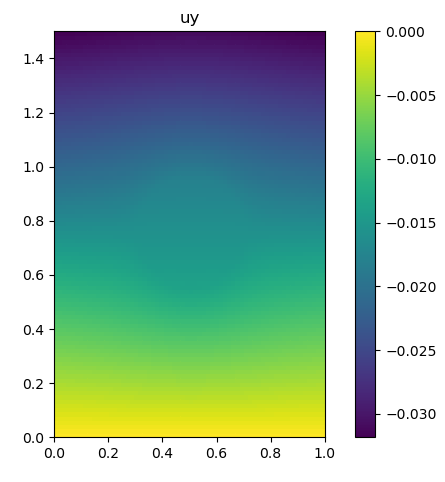
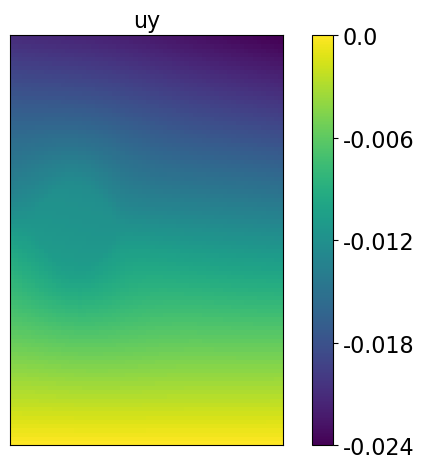
Changes to be committed: 	new file:   Figures/schematic_inv/eyy.png 	modified:   Figures/schematic_inv/mu.png 	modified:   Figures/schematic_inv/schematic_inv.png 	modified:   Figures/schematic_inv/uy.png 	modified:   ei_ml_arxiv2.tex

diff --git a/TeX_ML/ei_ml_arxiv/ei_ml_arxiv2.tex b/TeX_ML/ei_ml_arxiv/ei_ml_arxiv2.tex
@@ -58,7 +58,7 @@
 \newcommand{\nhgcnnheight}{4.0cm}
 % Appendix dimensions
 \newcommand{\nhgappwidth}{0.24\linewidth}
-\newcommand{\nhgappheight}{3.0cm}
+\newcommand{\nhgappheight}{2.9cm}
 % Histogram dimensions
 \newcommand{\nhghistowidth}{0.48\linewidth}
 \newcommand{\nhghistoheight}{4cm}
@@ -126,7 +126,7 @@ Conceptually, the solution of the inverse problem using a CNN is shown in figure
 %
 \begin{figure}[!h]
    \centering
-    \includegraphics[totalheight=4cm]{Figures/schematic_inv/schematic_inv.png}
+    \includegraphics[totalheight=5cm]{Figures/schematic_inv/schematic_inv.png}
   \caption{\label{fig:schematic_inv} Solving the inverse problem using CNNs. The CNN maps the displacement or strain field (or components thereof) to a shear modulus field.}
 \end{figure}
 %
@@ -285,6 +285,8 @@ To avoid this we add, as noted in \cite{bookchap:lecun98b}, a \textit{twisting t
 
 We note that, when we write: ``twisted tanh $[\mu_{lower},\mu_{upper}]$'' we mean that we are using the twisted tanh activation function with the training shear modulus data being scaled such that the interval $[\mu_{lower},\mu_{upper}]$ is mapped linearly to $[-1,1]$. The true range of the shear modulus for all the examples in this work is $[1.0,5.0]$, as noted before in section (\ref{sect:probsetup}).
 
+We conclude by commenting that enforcing constraints on the shear modulus is easy in traditional iterative methods because we can just supply bound constraints to the optimization algorithm. On the other hand, for neural networks, constrainng the shear modulus requires constraining the range of the output layer activatio which causes the gradients of the activation function to be zero, as the input goes further away from zero.
+
 \subsection{\label{sect:compsofttanh} Reduction of haloes using twisted tanh}
 In order to compare the softplus and twisted tanh activations, we define a metric which we call the scaled error. We denote the scaled error for the $i^{th}$  test example by $\zeta_{i}$ and the average scaled error by $\zeta_{ave}$. They are defined as 
 \begin{subequations}
@@ -293,7 +295,7 @@ In order to compare the softplus and twisted tanh activations, we define a metri
   \zeta_{ave} &\coloneqq \frac{\sum_{i=1}^{n_{test}}\zeta_{i}}{n_{test}} &\label{eqn:averagescalederror}
   \end{align}
 \end{subequations}
-where $\mu^{i,predicted}$ and $\mu^{i,true}$ are vectors containing the predicted and true values of the shear modulus for the $i^{th}$ test example and $n_{test}$ is the number of test examples, in our case $2000$. $\|\cdot\|_2$ is the Euclidean norm defined in equation (\ref{eqn:eucnorm}).
+where $\mu^{i,predicted}$ and $\mu^{i,true}$ are vectors containing the predicted and true values of the shear modulus for the $i^{th}$ test example and $n_{test}$ is the number of test examples. $\|\cdot\|_2$ is the Euclidean norm defined in equation (\ref{eqn:eucnorm}).
 
 We find that the average scaled error, defined above in equation (\ref{eqn:averagescalederror}), decreases as the known bounds $[\mu_{lower},\mu_{upper}]$ approach true bounds $[1.0,5.0]$, as seen in table (\ref{table:muminmax}).
 
@@ -362,26 +364,24 @@ Referring to figure (\ref{fig:haloes}), we see that the \textit{haloes} seen in 
 %\end{figure}
 %
 \section{Results}
-We present results for the CNNs described in table (\ref{table:cnnparams}) and section (\ref{sect:cnnarch}). Their architecture and parameters are given in figure (\ref{fig:cnn_arch}). In sections (\ref{sect:resultscnn1}) and (\ref{sect:resultscnn2}) we test the CNNs on data similar to training data. That is, both the training and test data contain displacement or strain fields corresponding to $1,2$ or $3$ circular inclusions in the domain. In sections (\ref{sect:resultscnn3}) and (\ref{sect:resultscross}) we test the performance on the CNNs on data which is unlike its training data, because the training data consists of displacement or strain fields corresponding to exactly one circular inclusion in the domain, while the test data contains either $1,2$ or $3$ inclusions in the domain. 
+We present results for the CNNs described in table (\ref{table:cnnparams}) and section (\ref{sect:cnnarch}). Their architecture and parameters are given in figure (\ref{fig:cnn_arch}). In sections (\ref{sect:resultscnn1}) and (\ref{sect:resultscnn2}) we test the CNNs on data similar to training data. That is, both the training and test data contain displacement or strain fields corresponding to $1,2$ or $3$ circular inclusions in the domain. In sections (\ref{sect:resultscnn3}) and (\ref{sect:resultscross}) we test the performance on the CNNs on data which is unlike its training data, because the training data consists of displacement or strain fields corresponding to exactly one circular inclusion in the domain, while the test data contains either $1,2$ or $3$ inclusions. 
 
-Every CNN is trained for 384 epochs to put them on a equal footing for comparison. At approximately ${28}$ seconds per epoch, the network takes about ${3}$ hours to train. All CNNs use the twisted tanh $[0.75,5.25]$ activation. This means that we instruct the CNNs to predict shear moduli approximately in the range $[0.75,5.25]$ as opposed to the true range $[1.0,5.0]$. Thus, we are not assuming perfect knowledge of the upper and lower bounds for the shear modulus in the problem. For each CNN, we present two representative reconstructions which illustrate the performance of our neural network. We present histograms based on the scaled error, equation (\ref{eqn:scalederror}). We present additional supporting reconstructions in Appendix (\ref{sect:appendix1}).
+We train each CNN for 384 epochs to put them on a equal footing for comparison. At approximately ${28}$ seconds per epoch, the network takes about ${3}$ hours to train. All CNNs use the twisted tanh $[0.75,5.25]$ activation. This means that we instruct the CNNs to predict shear moduli approximately in the range $[0.75,5.25]$ as opposed to the true range $[1.0,5.0]$. Thus, we are not assuming perfect knowledge of the upper and lower bounds for the shear modulus in the problem. For each CNN, we present two representative reconstructions which illustrate the performance of our neural network. We present histograms based on the scaled error, equation (\ref{eqn:scalederror}), and additional supporting reconstructions in Appendix (\ref{sect:appendix1}).
 
 \subsection{Error metrics}
 We introduce new metrics, namely the \textit{inclusion scaled error} and \textit{background scaled error}, to evaluate the performance of the neural networks. These metrics  measure the average percentage error in the shear modulus in the background or in the inclusion. We denote the inclusion scaled error for the $i^{th}$ test example by $\eta_{i}$ and its average by $\eta_{ave}$. They are defined as 
 \begin{subequations}
   \begin{align}
-  \eta_{i} &\coloneqq \frac{1}{n_{inc_i}}\sum_{j=1}^{n_{inc_i}}{\Bigg (}\frac{\mu^{i,predicted}_{j}-\mu^{i,true}_{j}}{\mu^{i,true}_{j}}{\Bigg )},  &\label{eqn:incscalederror}\\
-  \eta_{ave} &\coloneqq \frac{\sum_{i=1}^{n_{test}}\eta_{i}}{n_{test}}. &\label{eqn:averageincscalederror}
+  \eta_{i} &\coloneqq \frac{1}{n_{inc_i}}\sum_{j=1}^{n_{inc_i}}{\Bigg (}\frac{\mu^{i,predicted}_{j}-\mu^{i,true}_{j}}{\mu^{i,true}_{j}}{\Bigg )},  & \eta_{ave} &\coloneqq \frac{\sum_{i=1}^{n_{test}}\eta_{i}}{n_{test}}. &\label{eqn:averageincscalederror}
   \end{align}
 \end{subequations}
 In the above equations, $\mu_{j}^{i,true}$ is the $j^{th}$ component of a vector $\mu^{i,true}$ containing true values of the shear modulus for the $i^{th}$ test example, \textit{restricted to the true inclusion(s)} only. $\mu_{j}^{i,predicted}$ is the $j^{th}$ component of a vector $\mu^{i,predicted}$ containing corresponding predictions. $n_{inc_i}$ is the number of nodes in the inclusion(s) for the $i^{th}$ test example. $n_{test}$ is the number of test examples, in our case $2000$. The quantities $\eta_i$ and $\eta_{ave}$ capture how accurately the shear modulus of the inclusions is predicted. Positive values of $\eta_i$ and $\eta_{ave}$ indicate over-prediction. Negative values indicate under-prediction.
 
-The background scaled error for the $i^{th}$ example $\xi_{i}$ and its average $\xi_{ave}$ can be defined similarly, by replacing $n_{inc_i}$ in equations (\ref{eqn:incscalederror}) and (\ref{eqn:averageincscalederror})  with $n_{back_i}$ (the number of nodes in the background) and restricting the vectors $\mu^{i,true}$ and $\mu^{i,predicted}$ to the background only.
+The background scaled error for the $i^{th}$ example $\xi_{i}$ and its average $\xi_{ave}$ can be defined similarly, by replacing $n_{inc_i}$ in equation (\ref{eqn:averageincscalederror})  with $n_{back_i}$ (the number of nodes in the background) and restricting the vectors $\mu^{i,true}$ and $\mu^{i,predicted}$ to the background only.
 
 \begin{subequations}
   \begin{align}
-  \xi_{i} &\coloneqq \frac{1}{n_{back_i}}\sum_{j=1}^{n_{back_i}}{\Bigg (}\frac{\mu^{i,predicted}_{j}-\mu^{i,true}_{j}}{\mu^{i,true}_{j}}{\Bigg )},  &\label{eqn:backscalederror}\\
-  \xi_{ave} &\coloneqq \frac{\sum_{i=1}^{n_{test}}\eta_{i}}{n_{test}}. &\label{eqn:averagebackscalederror}
+  \xi_{i} &\coloneqq \frac{1}{n_{back_i}}\sum_{j=1}^{n_{back_i}}{\Bigg (}\frac{\mu^{i,predicted}_{j}-\mu^{i,true}_{j}}{\mu^{i,true}_{j}}{\Bigg )},  & \xi_{ave} &\coloneqq \frac{\sum_{i=1}^{n_{test}}\xi_{i}}{n_{test}}. &\label{eqn:averagebackscalederror}
   \end{align}
 \end{subequations}
 
@@ -514,7 +514,7 @@ Figure (\ref{fig:cnn2histo}) shows histograms of the scaled error, equation (\re
 \subsection{\label{sect:resultscnn3}Results for CNN3}
 In this section, we evaluate the ability of the CNN to generalize to examples outside its training set. We choose CNN3, see table (\ref{table:cnnparams}), which is trained using data which was generated using only one inclusion. But we evaluate it on data containing $1,2$ or $3$ inclusions. This is the same data was used to train and test CNN1 and CNN2. We see evidence of some ability to generalize.
 
-The training and validation losses for CNN3 are shown in figure (\ref{fig:cnn3losses}). The average inclusion scaled error is $-0.191$ and the average background scaled error is $-0.0459$. As expected, the average inclusion scaled error is worse than CNN1. This is surprisingly better than that of CNN2 because, unlike CNN3, CNN2 was tested with data similar to the training data. The average background scaled error is also worse than CNN1 but better than CNN2. This is another indication that strain based CNNs outperform displacement based CNNs.
+The training and validation losses for CNN3 are shown in figure (\ref{fig:cnn3losses}). The average inclusion scaled error is $-0.191$ and the average background scaled error is $-0.0459$. As expected, the average inclusion scaled error is worse than CNN1, but is surprisingly better than CNN2 because, unlike CNN3, CNN2 was tested with data similar to the training data. The average background scaled error is also worse than CNN1 but better than CNN2. This is another indication that strain based CNNs outperform displacement based CNNs.
 
 We present representative reconstructions in figures (\ref{fig:cnn3resulta}) and (\ref{fig:cnn3resultb}). These reconstructions are for the same true shear modulus fields for CNN1 and CNN2 (see figures (\ref{fig:cnn1result}) and (\ref{fig:cnn2result})). These results are worse than those obtained by CNN1 (figure \ref{fig:cnn1result}) and slightly better than those obtained by CNN2 (figure (\ref{fig:cnn2result})) according to the scaled error, equation (\ref{eqn:scalederror}). It is interesting that a CNN trained on examples with only one inclusion in the domain can detect multiple inclusions. Visually it appears that the performance of this CNN2 in the first example, figure (\ref{fig:cnn2resulta}), is better than CNN2 but worse than CNN1. It would appear that the performance is worse than CNN1 but better than CNN2. The inclusions on the bottom right in figure (\ref{fig:cnn3resultb}) have low shear modulus and are detected only as wisps. We have also observed this phenomenon in other reconstructions. We present additional results illustrating the performance of the network in figure (\ref{fig:app3result}) in Appendix (\ref{sect:appendix1}).
 
@@ -575,7 +575,6 @@ Figure (\ref{fig:cnn3histo}) shows histograms of the scaled error. We see that t
 \end{figure}
 %
 \subsection{\label{sect:resultscross} Cross shaped example}
-Figure (\ref{fig:resultcross}) shows reconstructions obtained when CNN1 is presented with data that is completely unlike its training data. The data is the axial strain $\epsilon_{yy}$ corresponding to the true shear modulus field in figure (\ref{fig:resultcross}). The boundary conditions were the same as before. The reconstruction in figure (\ref{fig:resultcross}) shows that the CNN1 can predict that there is an inclusion but cannot detect its exact shape. This result shows that if CNNs studied in this work are presented with data unlike their training data, good results may not be obtained. This is unlike traditional iterative methods which have been shown in \cite{paper:oberaipmb2004} to be able to capture inclusions with complicated shapes.
 %
 \begin{figure}[!h]
   \centering
@@ -583,6 +582,7 @@ Figure (\ref{fig:resultcross}) shows reconstructions obtained when CNN1 is prese
   \caption{\label{fig:resultcross} Result for cross shaped inclusion using CNN1. True shear modulus (left), prediction (right). The scaled error, equation (\ref{eqn:scalederror}), is $0.418$.}
 \end{figure}
 %
+Figure (\ref{fig:resultcross}) shows reconstructions obtained when CNN1 is presented with data that is completely unlike its training data. The data is the axial strain $\epsilon_{yy}$ corresponding to the true shear modulus field in figure (\ref{fig:resultcross}). The boundary conditions were the same as before. The reconstruction in figure (\ref{fig:resultcross}) shows that the CNN1 can predict that there is an inclusion but cannot detect its exact shape. This result shows that if CNNs studied in this work are presented with data unlike their training data, good results may not be obtained. This is unlike traditional iterative methods which have been shown in \cite{paper:oberaipmb2004} to be able to capture inclusions with complicated shapes.
 \subsection{\label{sect:discussion}Discussion}
 We observe encouraging results with good agreement between the true and predicted shear shear modulus images. Table (\ref{table:cnnstatsummary}) summarizes the performance of the three CNNs evaluated in this work. The shear modulus of inclusions is, in general, under-predicted. The shear modulus of inclusions with low shear modulus and small sized inclusions is significantly under-predicted, resulting in predictions that can be best described as 'wisps'.
 
@@ -608,35 +608,34 @@ The average inclusion scaled error, given in equation (\ref{eqn:averageincscaled
 
 On the basis of the average scaled error, table (\ref{table:cnnstatsummary}),  CNN1 outperforms CNN3 which in turn outperforms CNN2. Thus, the strain based networks are more accurate at predicting the value of the shear modulus of the inclusion. From cumulative histograms shown in figures (\ref{fig:cnn1histob},\ref{fig:cnn2histob}) and (\ref{fig:cnn3histob}) the fraction of examples classified with average scaled error less than $0.25$ was $0.80$ for CNN1 and $0.40$ for CNN2 and $0.75$ for CNN3. This indicates that CNN1 and CNN3 outperform CNN2 on this metric. We think that exploring the physical meaning of the convolutional filters learned using Fourier analysis as in \cite{paper:pateloberai2019} is a promising direction for investigating the reason for out-performance.
 
-The results presented in section (\ref{sect:resultscnn3}) show that a CNN trained on one inclusion in the domain can generalize to multiple inclusions in the domain. The result in section (\ref{sect:resultscross}) shows that the CNN does not generalize perfectly to non-circular examples. 
+The results presented in section (\ref{sect:resultscnn3}) show that a CNN trained on one inclusion in the domain can generalize to multiple inclusions in the domain. The result in section (\ref{sect:resultscross}) shows that CNN1 does not generalize perfectly to non-circular examples. 
 %
 \section{Concluding remarks}
 % Custom activation function
 % https://stackoverflow.com/questions/43915482/how-do-you-create-a-custom-activation-function-with-keras
-In this work, we have presented CNNs capable of predicting shear modulus fields from displacement or strain fields and obtained results that warrant further research. We use the twisted tanh activation function to constrain the shear modulus prediction as per our prior knowledge. The shear modulus of the inclusions with shear modulus close to the background modulus, or small inclusions, is predicted as wisps, while regions of high shear modulus are predicted more accurately. It is seen that while the CNNs exhibit good performance on the type of examples whose geometry is similar to the examples on which they were trained. They have limited ability to generalize to examples with unseen geometry, as is seen with the cross-shaped example. Using bigger data sets containing a large number of examples with different geometric characteristics may alleviate this problem.\\
+In this work, we have presented CNNs capable of predicting shear modulus fields from displacement or strain fields and obtained results that warrant further research. We use the twisted tanh activation function to constrain the shear modulus prediction as per our prior knowledge. The shear modulus of the inclusions with shear modulus close to the background modulus, or small inclusions, is predicted as wisps, while regions of high shear modulus are predicted more accurately. It is seen that while the CNNs exhibit good performance on the type of examples whose geometry is similar to the examples on which they were trained. They have limited ability to generalize to examples with unseen geometry, as is seen with the cross-shaped example. Using bigger data sets containing a large number of examples with different geometric characteristics may alleviate this problem.
 %
 \subsection{Directions for future work}
 \begin{enumerate}
-\item{We believe that addition of homogeneous examples to the dataset will be a good test for the CNNs evaluated in this work. However, given that the CNNs under-predict the shear modulus of small inclusions, we believe homogeneous examples will be predicted correctly. Another direction would be to first classify the test or prediction under example under consideration as homogeneous or non-homogeneous and then reconstruct the shear modulus field if it is deemed to be non-homogeneous.}
+\item{We believe that addition of homogeneous examples to the dataset will be a good test for the CNNs evaluated in this work. However, given that the CNNs under-predict the shear modulus of small inclusions, we believe homogeneous examples will be predicted correctly. Another direction would be to first classify the test or prediction example under consideration as homogeneous or non-homogeneous and then reconstruct the shear modulus field if it is deemed to be non-homogeneous.}
 \item{We think that training the CNN with displacement or strain data generated using random values for the shear modulus at each node, or perturbing the shear modulus of only one node relative to the background, and seeing if it learns the inverse operator from the displacement (or strain) fields to shear modulus fields will be an interesting research direction. Training with other complex shapes for the shear modulus will also be an interesting research direction.}
-\item{All examples in the current work have the same boundary condition. Incorporating boundary conditions into the neural network will be an interesting advance. Incorporating additional parameters such as boundary conditions into the neural network will necessitate an increase in the number of training examples.}
-\item{We see that better results are obtained for large inclusions with high contrast. Stiffness of smaller inclusions and inclusions with low shear modulus is under-predicted. Designing a network to accurately image small inclusions will be interesting. We note that having material properties and displacements on the same mesh may lead to unconverged displacements for smaller inclusions. These unconverged displacements will not have enough features/information to be able to predict stiffness fields from them. It may be useful to make the displacement mesh much finer than the shear modulus mesh so as to resolve features created by small inclusions. We also note that from previous experience, the adjoint method \cite{paper:oberai2003,paper:oberaipmb2004,paper:gokhale2008} is able to predict the small inclusions correctly using noiseless data. It appears that the adjoint method does better than CNNs on the problem of predicting small inclusions.}
+%\item{All examples in the current work have the same boundary condition. Incorporating boundary conditions into the neural network will be an interesting advance. Incorporating additional parameters such as boundary conditions into the neural network will necessitate an increase in the number of training examples.}
+\item{We see that better results are obtained for large inclusions with high contrast. Stiffness of smaller inclusions and inclusions with low shear modulus is under-predicted. Designing a network to accurately image small inclusions will be interesting. We note that, this this work,  material properties and displacements were on the same mesh. This may lead to unconverged displacements for smaller inclusions which may not have enough features/information to be of use in predicting small inclusions. We also note that from previous experience, the adjoint method \cite{paper:oberai2003,paper:oberaipmb2004,paper:gokhale2008} is able to predict the small inclusions correctly using noiseless data. It appears that the adjoint method does better than CNNs on the problem of predicting small inclusions.}
 \item{We think that Fourier analysis of these filters, as reported in \cite{paper:pateloberai2019} would be valuable. Using their technique, we can identify some filters in this work as the derivative in the $x$ or $y$ direction, but the physical meaning of the majority of filters is not clear. We believe that after understanding the physical meaning of each filter, better filters could perhaps be constructed manually. On a related note, visualization of intermediate images produced by the convolutional layers is also a promising direction.}
-\item{We have trained the CNN using examples in which the stiffness of the circular inclusion lies between $2.0$ and $5.0$. The test data also contains examples in the \textit{same} range. Expanding the range of the test data to include examples outside the training range and evaluating the performance of the CNNs will be interesting.}
+%\item{We have trained the CNN using examples in which the stiffness of the circular inclusion lies between $2.0$ and $5.0$. The test data also contains examples in the \textit{same} range. Expanding the range of the test data to include examples outside the training range and evaluating the performance of the CNNs will be interesting.}
 \item{We used a simple \textit{mean squared error} (which corresponds to the square of the $L^2$ norm in the continuous case) to evaluate the loss function for the neural network. The effect of other losses corresponding to $H^1$ norm or the $L^2$ norm with the addition of the Total Variation Diminishing (TVD) norm will be interesting to evaluate. We think that, based on our experience in \cite{diss:gokhale2007}, using a loss function corresponding to the $H^1$ norm will remove the incidence of regions of low shear modulus adjacent to inclusions. However, it will also penalize sharp discontinuities in the inclusions as well. If we are training with both components of a noiseless displacement field, then one can consider a loss function which is simply the residual obtained when the predicted shear modulus and input fields are inserted into the equilibrium equations of elasticity. Implementing these loss functions will require custom loss functions in TensorFlow perhaps along with custom gradient calculation.}
 \item{Investigating different network architectures with the aim of yielding better results will be worth investigating. More CNN layers (or less), deeper (or shallower) networks, different kernel sizes for convolutional layers should be investigated. The need for \textit{max pooling} layers should particularly be investigated because they reduce the size of the input image and may thus cause a loss of resolution. It may be worth investigating whether a CNN is required at all and whether a simple dense network can produce similar quality results. The first dense layer contains $128$ nodes. Increasing this number will probably result in better networks, but will also increase the number of weights and hence training time. It may also be worthwhile to replace the full connection of the dense layers with spatially close connections. By this, we mean that after flattening each node in the first dense layer would be connected only to those neurons which are spatially close together in the previous layer.}
 \item{Medical image registration to obtain a displacement field is a difficult process. It would be an important advance if we could train neural networks to work directly with medical images instead of the computed displacement field. This would involve training the CNN by computing thousands of displacement fields by hand and solving an inverse problem and using the predicted shear modulus field as labeled data as input to the CNN. Additional information could be obtained by doctors interpreting medical images and identifying tumors and their mechanical properties. A first step in this direction would be to generate ultrasound images following the procedure in \cite{paper:doyley}.}
-\item{Since the initial choices for the CNN weights are random, we can train the network multiple times and get different values for the network weights. Having thus obtained many CNNs with different weights, we are led to the following two options. One, we can average the weights of the CNNs to obtain an averaged network. Two, we can make multiple predictions with the different CNNs and then average the result. The second option will require large storage because CNNs have millions of parameters. While we do not expect a dramatic improvement by averaging networks, because the statistics of the initial guess for the millions of connection weights will be similar across realizations, these options should be investigated.}
+%\item{Since the initial choices for the CNN weights are random, we can train the network multiple times and get different values for the network weights. Having thus obtained many CNNs with different weights, we are led to the following two options. One, we can average the weights of the CNNs to obtain an averaged network. Two, we can make multiple predictions with the different CNNs and then average the result. The second option will require large storage because CNNs have millions of parameters. While we do not expect a dramatic improvement by averaging networks, because the statistics of the initial guess for the millions of connection weights will be similar across realizations, these options should be investigated.}
 \item{It would be interesting to consider a multi-scale/hierarchical neural network. This neural network would first make a prediction of the average shear modulus field using only a few weights. In the next step, more nodes would be introduced and, say, 9 nodes would be introduced to make a prediction of the shear modulus field. The number of layers and neurons would be increased and the weights would be initialized from the previous neural network. This process can continue until a neural network which can make detailed predictions of the stiffness field can be obtained.}
-\item{In this work, we trained CNNs on noiseless data and then made predictions using noisy data. Another option could be to increase the number of training set examples by adding noise to them and see whether the predictions become more accurate. This can dramatically increase the size of the training set because multiple noisy displacement fields can be constructed from a single noiseless displacement field.}
+%\item{In this work, we trained CNNs on noiseless data and then made predictions using noisy data. Another option could be to increase the number of training set examples by adding noise to them and see whether the predictions become more accurate. This can dramatically increase the size of the training set because multiple noisy displacement fields can be constructed from a single noiseless displacement field.}
 \item{Extending this work to actual complex three dimensional organ geometries discretized using unstructured finite element meshes will be interesting because the domain will no longer be rectangular. The domain will change from patient to patient. Data will no longer be available at pre-determined spatial locations.  A method that could be considered is to approximate the organ geometry using a structured grid. That is, if the center of the cell lies inside the organ, then that entire cell is considered to be inside the organ. Cells outside the organ can have placeholder data, while cells inside the organ can have actual displacement or strain data. Because the geometry is now represented on a structured grid, simple CNNs can be used. We believe that while this method may be feasible in two dimensions, it will result in a waste of storage space in three dimensions. Finally, we note that evaluating loss functions on finite element meshes will require custom loss functions which are mesh-aware.}
-\item{Multiple displacement fields: In \cite{paper:barbonegokhale,paper:barbonebamber} the authors show that a single strain or displacement field is not sufficient to predict the shear modulus field uniquely and multiple displacement fields are required for unique prediction of the shear modulus field. The use of multiple displacement fields can be considered within our current framework by increasing the number of channels the input images. See Section (\ref{sect:cnnarch}).} 
+%\item{Multiple displacement fields: In \cite{paper:barbonegokhale,paper:barbonebamber} the authors show that a single strain or displacement field is not sufficient to predict the shear modulus field uniquely and multiple displacement fields are required for unique prediction of the shear modulus field. The use of multiple displacement fields can be considered within our current framework by increasing the number of channels the input images. See Section (\ref{sect:cnnarch}).} 
 \item{Assuming that inclusions are roughly circular, we can consider several other problems. Given a displacement field, strain field or shear modulus field (computed by any inversion procedure) we may train a CNN to compute : 1) Whether or not inclusions exist in the domain. This is the \textit{binary classification problem}. Our experience with this suggests that this problem can solved accurately in the absence of noise. 2) The number of inclusions in the problem 3) The shear modulus of each inclusion 4) The location of the center of each inclusion. 5) The radius of each inclusion.}
-\item{Enforcing constraints on the shear modulus is easy in traditional iterative methods. We just supply bound constraints to the optimization algorithm. On the other hand, for the type of problem studied in this work, constraints on the shear modulus values result in constraints on the activation function of the final output layer, and not on the optimization variables. Applying bound constraints to the shear modulus is hard and requires the use of special activation functions which may result in the optimization getting stuck because the derivative of the activation function vanishes. We note that in this work, this problem has been alleviated to a large extent by the use of the twisted tanh activation function. Finally we note that one can solve a non-linearly constrained optimization problem to train the neural network in which the output of the final layer is constrained between allowable values of the shear modulus. However, when an unseen example from the test set is presented, it is not possible to guarantee that this constraint will be satisfied.}
+%\item{Enforcing constraints on the shear modulus is easy in traditional iterative methods. We just supply bound constraints to the optimization algorithm. On the other hand, for the type of problem studied in this work, constraints on the shear modulus values result in constraints on the activation function of the final output layer, and not on the optimization variables. Applying bound constraints to the shear modulus is hard and requires the use of special activation functions which may result in the optimization getting stuck because the derivative of the activation function vanishes. We note that in this work, this problem has been alleviated to a large extent by the use of the twisted tanh activation function. Finally we note that one can solve a non-linearly constrained optimization problem to train the neural network in which the output of the final layer is constrained between allowable values of the shear modulus. However, when an unseen example from the test set is presented, it is not possible to guarantee that this constraint will be satisfied.}
 \item{A hybrid approach combining machine learning and traditional approaches (iterative or direct) will be interesting. We envision that the ML based approach will provide a measure of the confidence in its output. If this is confidence is low, then a solution will be computed using traditional direct or iterative methods and perhaps added to the machine learning training dataset.}
-\item{Extending the method studied in this document to predict multiple parameter fields will be interesting, because the method will have to study the features in the displacement or strain fields and then decide which parameter field was responsible for producing those features. Such cases will occur when we try to predict both $\lambda(x)$ and $\mu(x)$ for linear elasticity both the nonlinear parameter $\gamma(x)$ and the linear parameter $\mu(x)$ as in \cite{paper:gokhale2008}. We think separate CNNs for each material parameter will be required.}
-\item{We think that using millions of training examples will improve the performance of the CNNs evaluated in this work. Using a large number of examples may also help incorporate large ranges of $\mu$, complex shapes for the inclusions and many different boundary conditions. Highly optimized finite element solvers and supporting state of the art computer hardware such as high end clusters of CPUs and GPUs and fast storage such as SSDs will be required for generating large amounts of data and for training the CNN.}
-
+\item{Extending the method studied in this document to predict multiple parameter fields will be interesting, because the method will have to examine the features in the displacement or strain fields and then decide which parameter field was responsible for producing those features. Such cases will occur when we try to predict both $\lambda(x)$ and $\mu(x)$ for linear elasticity both the nonlinear parameter $\gamma(x)$ and the linear parameter $\mu(x)$ as in \cite{paper:gokhale2008}. We think separate CNNs for each material parameter will be required. We will also need to use multiple displacement fields \cite{paper:barbonegokhale,paper:barbonebamber} by increasing the number of channels in our input data. Use of multiple displacement fields will also help to predict the shear modulus field uniquely.}
+\item{We think that using millions of training examples will improve the performance of the CNNs evaluated in this work. Using a large number of examples will also help incorporate large ranges of $\mu$, complex shapes for the inclusions, many different boundary conditions, and training with many noisy displacement or strain fields generated from noiseless fields. These noisy fields, corresponding to different realizations of noise, will correspond to the same true shear modulus field. Highly optimized finite element solvers and supporting state of the art computer hardware such as high end clusters of CPUs and GPUs and fast storage such as SSDs will be required for data generation and CNN training.}
 \end{enumerate}
 %\clearpage
 \begin{appendices}
